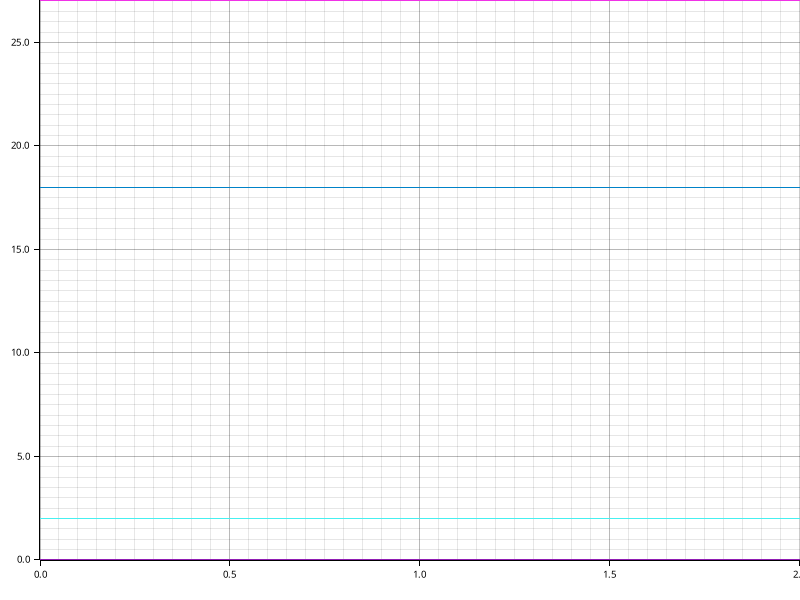
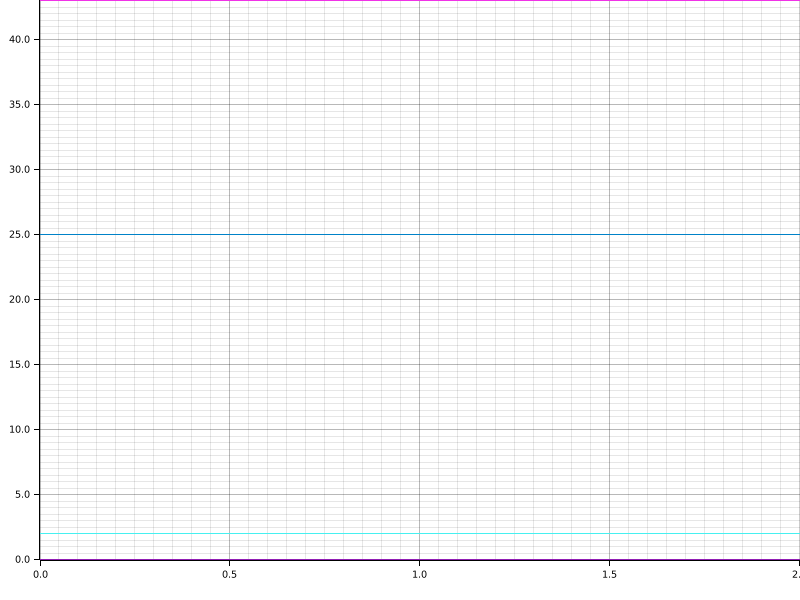
Reran core-structures codegen

Changed region(s): [[0.0, 0.0, 1.0, 0.96]]

diff --git a/web/core-structures/core-structures-builder/time_requirements_report.md b/web/core-structures/core-structures-builder/time_requirements_report.md
@@ -1,30 +1,30 @@
 # Time Report for Building Core Structures
 
 The total time spent on all tasks was a minute.
-The slowest task was `Code generation` which took 27 seconds (56.25% of all time).
+The slowest task was `Code generation` which took 43 seconds (59.72% of all time).
 
 | name                            | time       | percentage | comment    |
 |---------------------------------|------------|------------|------------|
 | Checking Migrations Directory   | now        | 0.00%      | Unchanged. |
 | Creating Font Awesome Icons CSV | now        | 0.00%      | Unchanged. |
 | Creating Taxonomical Ranks CSV  | now        | 0.00%      | Unchanged. |
-| Building Schema from CSVs       | 18 seconds | 37.50%     | Unchanged. |
+| Building Schema from CSVs       | 25 seconds | 34.72%     | Unchanged. |
 | Executing Migrations            | now        | 0.00%      | Unchanged. |
 | Executing Meta-SQL              | now        | 0.00%      | Unchanged. |
-| Checking Constraints            | now        | 4.17%      | Unchanged. |
-| Code generation                 | 27 seconds | 56.25%     | Unchanged. |
+| Checking Constraints            | now        | 2.78%      | Unchanged. |
+| Code generation                 | 43 seconds | 59.72%     | Unchanged. |
 
 ## Time Report for Code generation
 
-The total time spent on all tasks was 27 seconds.
-The slowest task was `Generate Web Common Traits` which took 12 seconds (44.44% of all time).
+The total time spent on all tasks was 43 seconds.
+The slowest task was `Generate Structs` which took 20 seconds (46.51% of all time).
 
 | name                       | time       | percentage | comment    |
 |----------------------------|------------|------------|------------|
 | Retrieving tables          | now        | 0.00%      | Unchanged. |
-| Generating Diesel code     | now        | 7.41%      | Unchanged. |
-| Generate Structs           | 12 seconds | 44.44%     | Unchanged. |
-| Generate Web Common Traits | 12 seconds | 44.44%     | Unchanged. |
+| Generating Diesel code     | now        | 6.98%      | Unchanged. |
+| Generate Structs           | 20 seconds | 46.51%     | Unchanged. |
+| Generate Web Common Traits | 19 seconds | 44.19%     | Unchanged. |
 
 ### Time Report for Generating Diesel code
 
@@ -39,35 +39,35 @@ The slowest task was `Generating allow tables to appear in same query schema` wh
 
 ### Time Report for Generate Structs
 
-The total time spent on all tasks was 12 seconds.
-The slowest task was `Generate Table Structs` which took 12 seconds (100.00% of all time).
+The total time spent on all tasks was 20 seconds.
+The slowest task was `Generate Table Structs` which took 20 seconds (100.00% of all time).
 
 | name                   | time       | percentage | comment    |
 |------------------------|------------|------------|------------|
 | Generate Types Structs | now        | 0.00%      | Unchanged. |
-| Generate Table Structs | 12 seconds | 100.00%    | Unchanged. |
+| Generate Table Structs | 20 seconds | 100.00%    | Unchanged. |
 
 ### Time Report for Generate Web Common Traits
 
-The total time spent on all tasks was 12 seconds.
-The slowest task was `Generate Table Traits` which took 12 seconds (100.00% of all time).
+The total time spent on all tasks was 19 seconds.
+The slowest task was `Generate Table Traits` which took 19 seconds (100.00% of all time).
 
 | name                  | time       | percentage | comment    |
 |-----------------------|------------|------------|------------|
 | Generate Types Traits | now        | 0.00%      | Unchanged. |
-| Generate Table Traits | 12 seconds | 100.00%    | Unchanged. |
+| Generate Table Traits | 19 seconds | 100.00%    | Unchanged. |
 
 #### Time Report for Generate Table Traits
 
-The total time spent on all tasks was 12 seconds.
-The slowest task was `Generate Insertable Traits` which took now (41.67% of all time).
+The total time spent on all tasks was 19 seconds.
+The slowest task was `Generate Insertable Traits` which took now (47.37% of all time).
 
 | name                       | time | percentage | comment    |
 |----------------------------|------|------------|------------|
-| Generate Deletable Traits  | now  | 8.33%      | Unchanged. |
+| Generate Deletable Traits  | now  | 5.26%      | Unchanged. |
 | Generate Loadable Traits   | now  | 0.00%      | Unchanged. |
-| Generate Foreign Traits    | now  | 25.00%     | Unchanged. |
-| Generate Insertable Traits | now  | 41.67%     | Unchanged. |
-| Generate Updatable Traits  | now  | 16.67%     | Unchanged. |
+| Generate Foreign Traits    | now  | 21.05%     | Unchanged. |
+| Generate Insertable Traits | now  | 47.37%     | Unchanged. |
+| Generate Updatable Traits  | now  | 10.53%     | Unchanged. |
 
 ![Plot](time_requirements_report.png)
